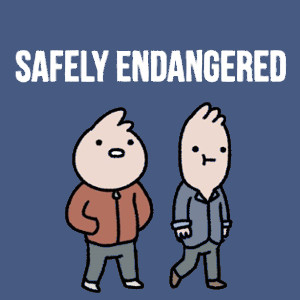
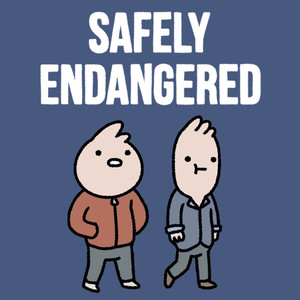
Update cover of Safely Endangered comic
http://www.safelyendangered.com/wp-content/uploads/2014/06/logo1.png
http://www.webtoons.com/en/comedy/safely-endangered/ep-40-haunted-house/viewer?title_no=352&episode_no=40

Changed region(s): [[0.03, 0.03, 0.96, 0.99]]

diff --git a/src/Comics/SafelyEndangered.cpp b/src/Comics/SafelyEndangered.cpp
@@ -16,7 +16,7 @@ SafelyEndangered::SafelyEndangered(QObject *parent) :
 {
     m_info.id             = QString("safelyendangered");
     m_info.name           = QString("Safely Endangered");
-    m_info.color          = QColor(71, 91, 130);
+    m_info.color          = QColor(71, 89, 127);
     m_info.authors        = QStringList("Chris McCoy");
     m_info.homepage       = QUrl("http://www.safelyendangered.com/");
     m_info.country        = QLocale::UnitedKingdom;
